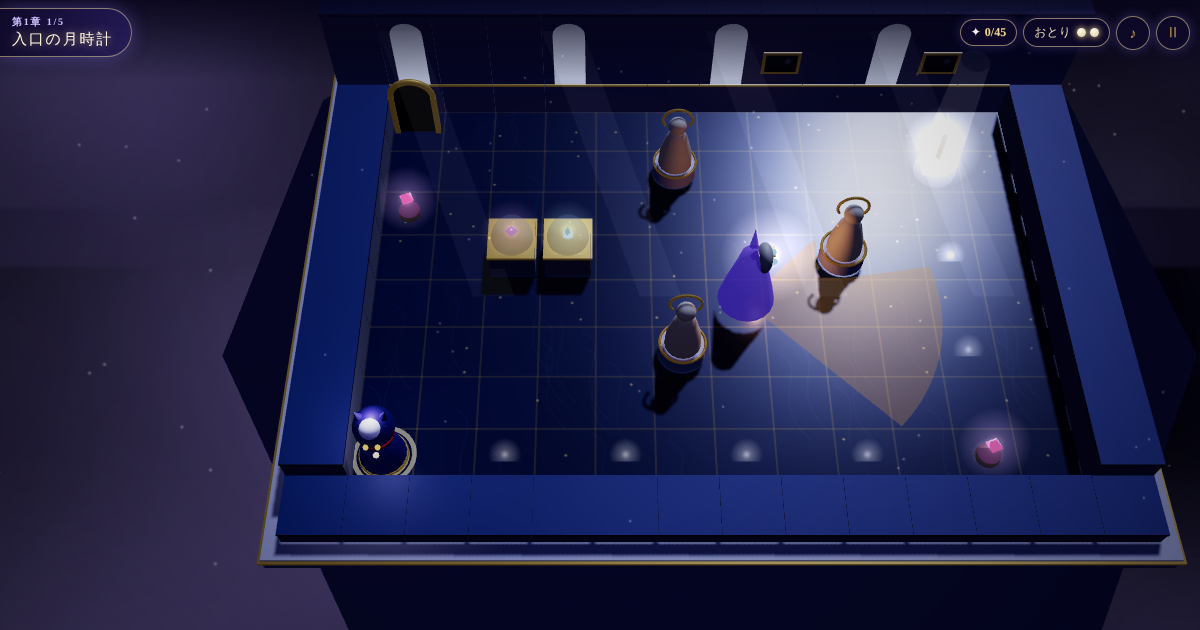
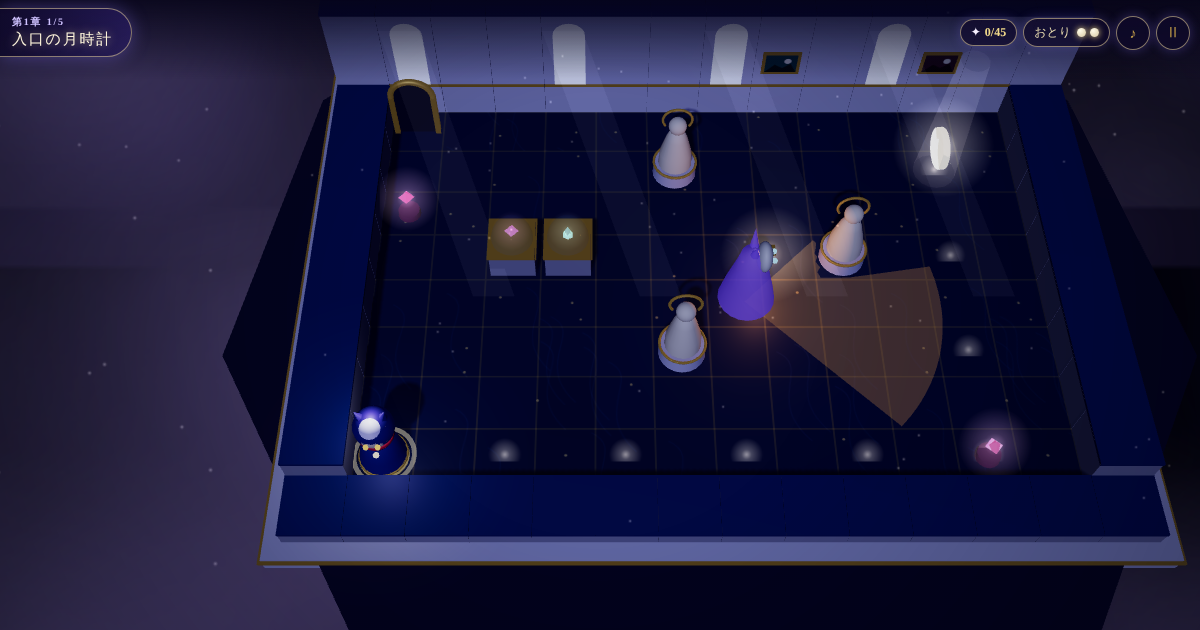
[FIX] 月光美術館と十二の怪盗：3Dの照明と素材を調整（白飛び・逆光・展示ケース・鏡・動く額・かけら）
Claude-Session: https://claude.ai/code/session_01MokQntdd3n6K58QCqVKUx1

diff --git a/site/games/moonlight-heist/render3d.js b/site/games/moonlight-heist/render3d.js
@@ -63,6 +63,7 @@ export function create3D(canvas, deps) {
   const clouds2 = clouds.clone(); clouds2.material = clouds.material.clone(); clouds2.material.opacity = 0.22; clouds2.position.y = -4.5; clouds2.material.color = new THREE.Color(0xb0a0ff); scene.add(clouds2);
 
   const hemi = new THREE.HemisphereLight(0x8090ff, 0x201030, 0.55); scene.add(hemi);
+  const fill = new THREE.DirectionalLight(0x9aa0ff, 0.35); fill.position.set(0, 10, 30); scene.add(fill);
   const moon = new THREE.DirectionalLight(0xbfd0ff, 1.6); moon.castShadow = true;
   moon.shadow.mapSize.set(1024, 1024); moon.shadow.bias = -0.0008; moon.shadow.normalBias = 0.02; scene.add(moon); scene.add(moon.target);
 
@@ -70,8 +71,8 @@ export function create3D(canvas, deps) {
     const c = skyTex.image.getContext('2d'); const g = c.createLinearGradient(0, 0, 0, 256);
     g.addColorStop(0, th.sky[0]); g.addColorStop(0.55, th.sky[1]); g.addColorStop(1, '#3a2a6a'); c.fillStyle = g; c.fillRect(0, 0, 8, 256); skyTex.needsUpdate = true;
     scene.fog = new THREE.FogExp2(th.fog, 0.012);
-    hemi.color.set(th.amb); hemi.intensity = dark ? 0.18 : 0.55;
-    moon.color.set(th.moon); moon.intensity = dark ? 0.25 : 1.6;
+    hemi.color.set(th.amb); hemi.intensity = dark ? 0.2 : 0.75;
+    moon.color.set(th.moon); moon.intensity = dark ? 0.25 : 1.05;
     moonMesh.visible = moonGlow.visible = !dark;
   }
 
@@ -88,15 +89,16 @@ export function create3D(canvas, deps) {
       c.fillStyle = 'rgba(240,210,130,0.75)'; for (let i = 0; i < 26; i++) { c.beginPath(); c.arc(hsh(i, 9) * w, hsh(i, 10) * w, 1.6, 0, 7); c.fill(); }
     });
     floorTex.wrapS = floorTex.wrapT = THREE.RepeatWrapping;
-    mats.floor = new THREE.MeshStandardMaterial({ map: floorTex, roughness: 0.22, metalness: 0.15 });
+    mats.floor = new THREE.MeshStandardMaterial({ map: floorTex, roughness: 0.5, metalness: 0.1 });
     mats.marble = new THREE.MeshStandardMaterial({ color: th.marble, roughness: 0.45, metalness: 0.05 });
     mats.wallDark = new THREE.MeshStandardMaterial({ color: new THREE.Color(th.marble).multiplyScalar(0.55), roughness: 0.6 });
     mats.capStone = new THREE.MeshStandardMaterial({ color: new THREE.Color(th.floor2).multiplyScalar(1.6), roughness: 0.5, metalness: 0.2 });
     mats.gold = new THREE.MeshStandardMaterial({ color: th.trim, roughness: 0.3, metalness: 0.85, emissive: new THREE.Color(th.trim).multiplyScalar(0.12) });
     mats.rock = new THREE.MeshStandardMaterial({ color: 0x2a2048, roughness: 0.95, flatShading: true });
+    mats.dome = new THREE.MeshStandardMaterial({ color: 0x9ab8ff, roughness: 0.05, metalness: 0.2, transparent: true, opacity: 0.12, depthWrite: false });
     mats.glass = new THREE.MeshStandardMaterial({ color: 0xbfd8ff, roughness: 0.05, metalness: 0.1, transparent: true, opacity: 0.22, depthWrite: false });
     mats.statue = new THREE.MeshStandardMaterial({ color: 0xf2ead6, roughness: 0.6, emissive: 0x3a3020, emissiveIntensity: 0.4 });
-    mats.mirror = new THREE.MeshStandardMaterial({ color: 0x9ab0ff, roughness: 0.02, metalness: 1, emissive: 0x1a2050 });
+    mats.mirror = new THREE.MeshStandardMaterial({ roughness: 0.1, metalness: 0.3, emissive: 0xffffff, emissiveIntensity: 0.55, emissiveMap: canvasTex(128, 160, (c, w, h) => { const g = c.createLinearGradient(0, 0, w, h); g.addColorStop(0, '#3a4aa8'); g.addColorStop(0.5, '#8aa0f0'); g.addColorStop(1, '#2a3080'); c.fillStyle = g; c.fillRect(0, 0, w, h); c.fillStyle = '#fff'; for (let i = 0; i < 20; i++) c.fillRect(hsh(i, 1, 4) * w, hsh(i, 2, 4) * h, 2, 2); c.strokeStyle = 'rgba(255,255,255,0.5)'; c.lineWidth = 10; c.beginPath(); c.moveTo(w * 0.1, h); c.lineTo(w * 0.8, 0); c.stroke(); }), color: 0x6a7ad0 });
     mats.leaf = new THREE.MeshStandardMaterial({ color: 0x1f6a52, roughness: 0.6 });
     mats.flower = new THREE.MeshStandardMaterial({ color: 0xffffff, emissive: 0xd8d8ff, emissiveIntensity: 1.2 });
     mats.book = new THREE.MeshStandardMaterial({ map: canvasTex(128, 128, (c, w) => { c.fillStyle = '#3a2238'; c.fillRect(0, 0, w, w); for (let r = 0; r < 4; r++) { let x = 4; for (let i = 0; x < w - 6; i++) { const bw = 8 + hsh(i, r) * 10, bh = 18 + hsh(i, r, 2) * 10; c.fillStyle = ['#7a2a4a', '#2a3a7a', '#3a6a5a', '#6a4a2a', '#4a2a6a'][(i + r) % 5]; c.fillRect(x, r * 32 + 30 - bh, bw - 2, bh); c.fillStyle = '#d4af5a'; c.fillRect(x + 1, r * 32 + 30 - bh * 0.6, bw - 4, 2); x += bw; } c.fillStyle = '#d4af5a'; c.fillRect(0, r * 32 + 30, w, 2); } }), roughness: 0.8 });
@@ -119,11 +121,11 @@ export function create3D(canvas, deps) {
     const g = new THREE.Group();
     const base = new THREE.Mesh(new THREE.BoxGeometry(0.82, 0.55, 0.82), mats.wallDark); base.position.y = 0.275; g.add(base);
     const cap = new THREE.Mesh(new THREE.BoxGeometry(0.88, 0.05, 0.88), mats.gold); cap.position.y = 0.57; g.add(cap);
-    const dome = new THREE.Mesh(new THREE.SphereGeometry(0.38, 24, 12, 0, Math.PI * 2, 0, Math.PI / 2), mats.glass); dome.position.y = 0.6; dome.scale.y = 1.3; g.add(dome);
+    const dome = new THREE.Mesh(new THREE.SphereGeometry(0.38, 24, 12, 0, Math.PI * 2, 0, Math.PI / 2), mats.dome); dome.position.y = 0.6; dome.scale.y = 1.3; g.add(dome);
     const col = [0xffe0a0, 0x8ad0ff, 0xff8ad0, 0xa0ffc8][k % 4];
     const geo = [new THREE.IcosahedronGeometry(0.12, 0), new THREE.TorusKnotGeometry(0.08, 0.025, 48, 8), new THREE.OctahedronGeometry(0.13), new THREE.ConeGeometry(0.1, 0.25, 6)][k % 4];
-    const obj = new THREE.Mesh(geo, new THREE.MeshStandardMaterial({ color: col, emissive: col, emissiveIntensity: 0.9, roughness: 0.3, metalness: 0.4 })); obj.position.y = 0.82; obj.userData.spin = true; g.add(obj);
-    const gl = glowSprite(col, 1.1, 0.5); gl.position.y = 0.82; g.add(gl);
+    const obj = new THREE.Mesh(geo, new THREE.MeshStandardMaterial({ color: col, emissive: col, emissiveIntensity: 0.6, roughness: 0.3, metalness: 0.4 })); obj.position.y = 0.82; obj.userData.spin = true; g.add(obj);
+    const gl = glowSprite(col, 0.7, 0.35); gl.position.y = 0.82; g.add(gl);
     g.position.set(x + 0.5, 0, z + 0.5);
     base.castShadow = true; base.receiveShadow = true;
     return g;
@@ -213,8 +215,8 @@ export function create3D(canvas, deps) {
   function makeItem(it) {
     const g = new THREE.Group();
     if (it.kind === 'key') {
-      const c = crescent(0xfff3c8); c.position.y = 0.75; g.add(c); g.userData.spin = c;
-      const gl = glowSprite(0xffe8a8, 1.5, 0.75); gl.position.y = 0.75; g.add(gl);
+      const c = crescent(0xfff3c8); c.scale.setScalar(1.7); c.position.y = 0.75; g.add(c); g.userData.spin = c;
+      const gl = glowSprite(0xffe8a8, 1.9, 0.85); gl.position.y = 0.75; g.add(gl);
       const beam = new THREE.Mesh(new THREE.CylinderGeometry(0.25, 0.4, 3, 16, 1, true), new THREE.MeshBasicMaterial({ color: 0xffeebb, transparent: true, opacity: 0.06, side: THREE.DoubleSide, depthWrite: false, blending: THREE.AdditiveBlending })); beam.position.y = 1.5; g.add(beam);
     } else {
       const cush = new THREE.Mesh(new THREE.CylinderGeometry(0.2, 0.22, 0.12, 16), new THREE.MeshStandardMaterial({ color: 0x7a2a5a, roughness: 0.8 })); cush.position.y = 0.06; g.add(cush);
@@ -294,7 +296,7 @@ export function create3D(canvas, deps) {
     const movers = (room.movers || []).map((m) => {
       let o;
       if (m.planet) { o = new THREE.Group(); const p = new THREE.Mesh(new THREE.SphereGeometry(0.95, 32, 24), new THREE.MeshStandardMaterial({ color: 0x3fae8f, roughness: 0.5, emissive: 0x0a3028 })); p.castShadow = true; o.add(p); const r = new THREE.Mesh(new THREE.TorusGeometry(1.35, 0.05, 8, 48), mats.gold); r.rotation.x = 1.2; o.add(r); o.userData.planet = true; }
-      else if (m.frame) { o = new THREE.Group(); const f = new THREE.Mesh(new THREE.BoxGeometry(0.2, 1.4, 1.9), mats.gold); f.position.y = 0.7; f.castShadow = true; o.add(f); const pc = new THREE.Mesh(new THREE.PlaneGeometry(1.7, 1.2), new THREE.MeshStandardMaterial({ map: pics[1], side: THREE.DoubleSide })); pc.position.set(0.11, 0.72, 0); pc.rotation.y = Math.PI / 2; o.add(pc); }
+      else if (m.frame) { o = new THREE.Group(); for (let i = 0; i < m.positions[0].length; i++) { const e = new THREE.Group(); const f = new THREE.Mesh(new THREE.BoxGeometry(0.86, 1.1, 0.08), mats.gold); f.position.y = 0.95; f.castShadow = true; e.add(f); const pc = new THREE.Mesh(new THREE.PlaneGeometry(0.72, 0.92), new THREE.MeshStandardMaterial({ map: pics[(i + 2) % 4], emissive: 0xffffff, emissiveIntensity: 0.25, emissiveMap: pics[(i + 2) % 4] })); pc.position.set(0, 0.95, 0.045); e.add(pc); [-1, 1].forEach((k) => { const leg = new THREE.Mesh(new THREE.BoxGeometry(0.05, 0.5, 0.05), mats.gold); leg.position.set(k * 0.3, 0.25, -0.1); leg.rotation.x = -0.2; e.add(leg); }); e.position.z = i - (m.positions[0].length - 1) / 2; o.add(e); } }
       else { o = new THREE.Group(); const cells = m.positions[0]; for (let i = 0; i < cells.length; i++) { const s = statue(0, i, 0xe6c79a); s.position.set(0, 0, i); o.add(s); } }
       world.add(o); return { m, o };
     });
@@ -310,7 +312,7 @@ export function create3D(canvas, deps) {
     const rings = Array.from({ length: 6 }, () => { const r = new THREE.Mesh(new THREE.RingGeometry(0.92, 1, 40), new THREE.MeshBasicMaterial({ color: 0xc8e0ff, transparent: true, opacity: 0, depthWrite: false })); r.rotation.x = -Math.PI / 2; r.position.y = 0.04; world.add(r); return r; });
     const decoy = new THREE.Mesh(new THREE.SphereGeometry(0.08, 8, 8), new THREE.MeshStandardMaterial({ color: 0xd8d2c0 })); world.add(decoy);
     // 月の光（影の範囲を部屋に合わせる）
-    moon.position.set(w * 0.8, 14, -6); moon.target.position.set(w / 2, 0, h / 2);
+    moon.position.set(w * 0.25, 16, h + 9); moon.target.position.set(w / 2, 0, h / 2);
     const sc = moon.shadow.camera; sc.left = -w * 0.8; sc.right = w * 0.8; sc.top = h; sc.bottom = -h; sc.near = 1; sc.far = 40; sc.updateProjectionMatrix();
     moonMesh.position.set(w / 2 + 22, 18, -40); moonGlow.position.copy(moonMesh.position); moonMesh.lookAt(w / 2, 0, h / 2);
     // 記憶の光の粒
